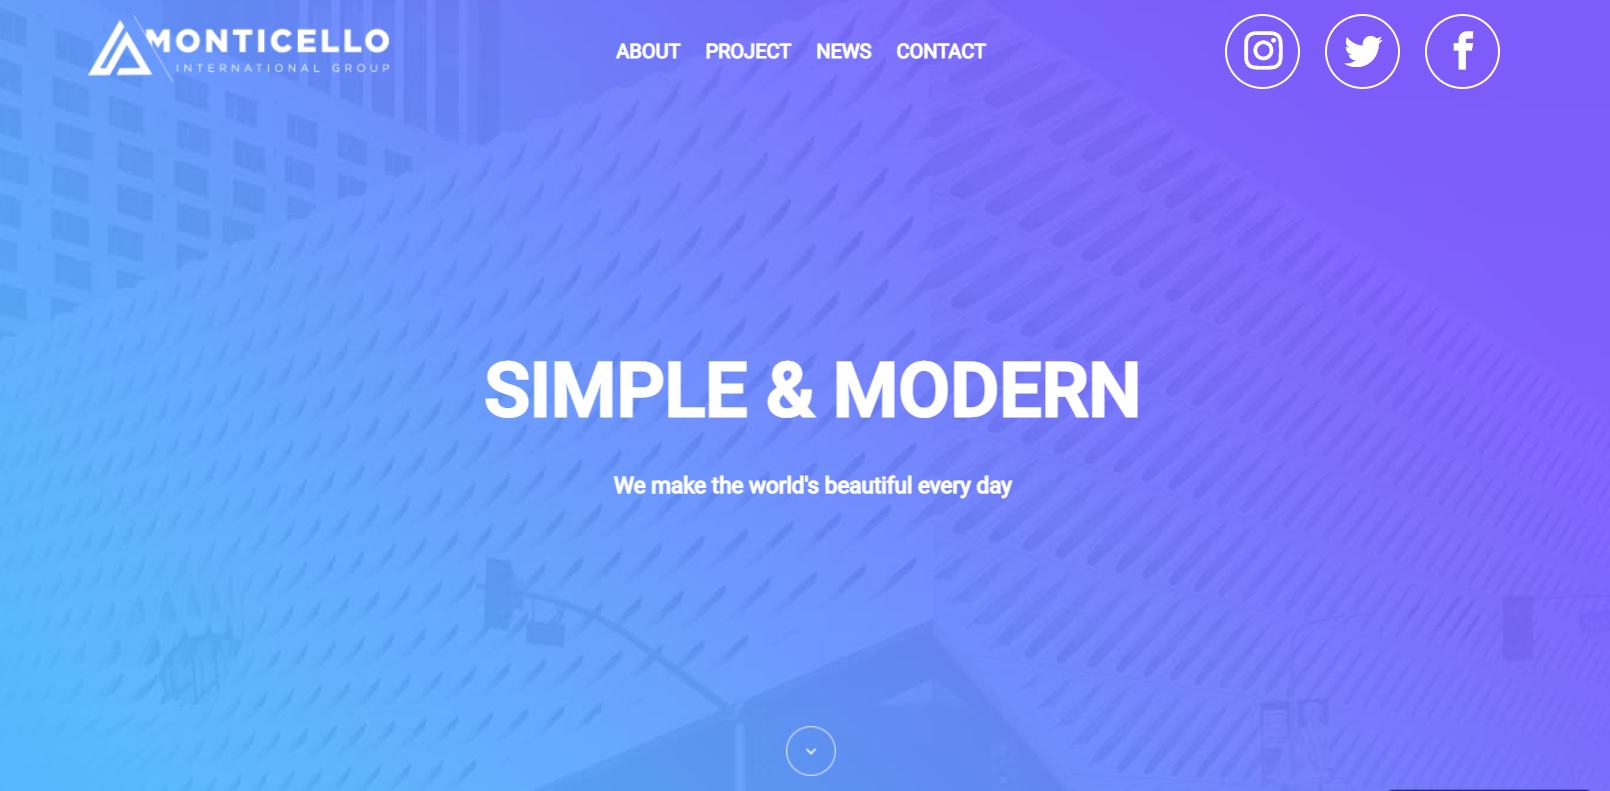
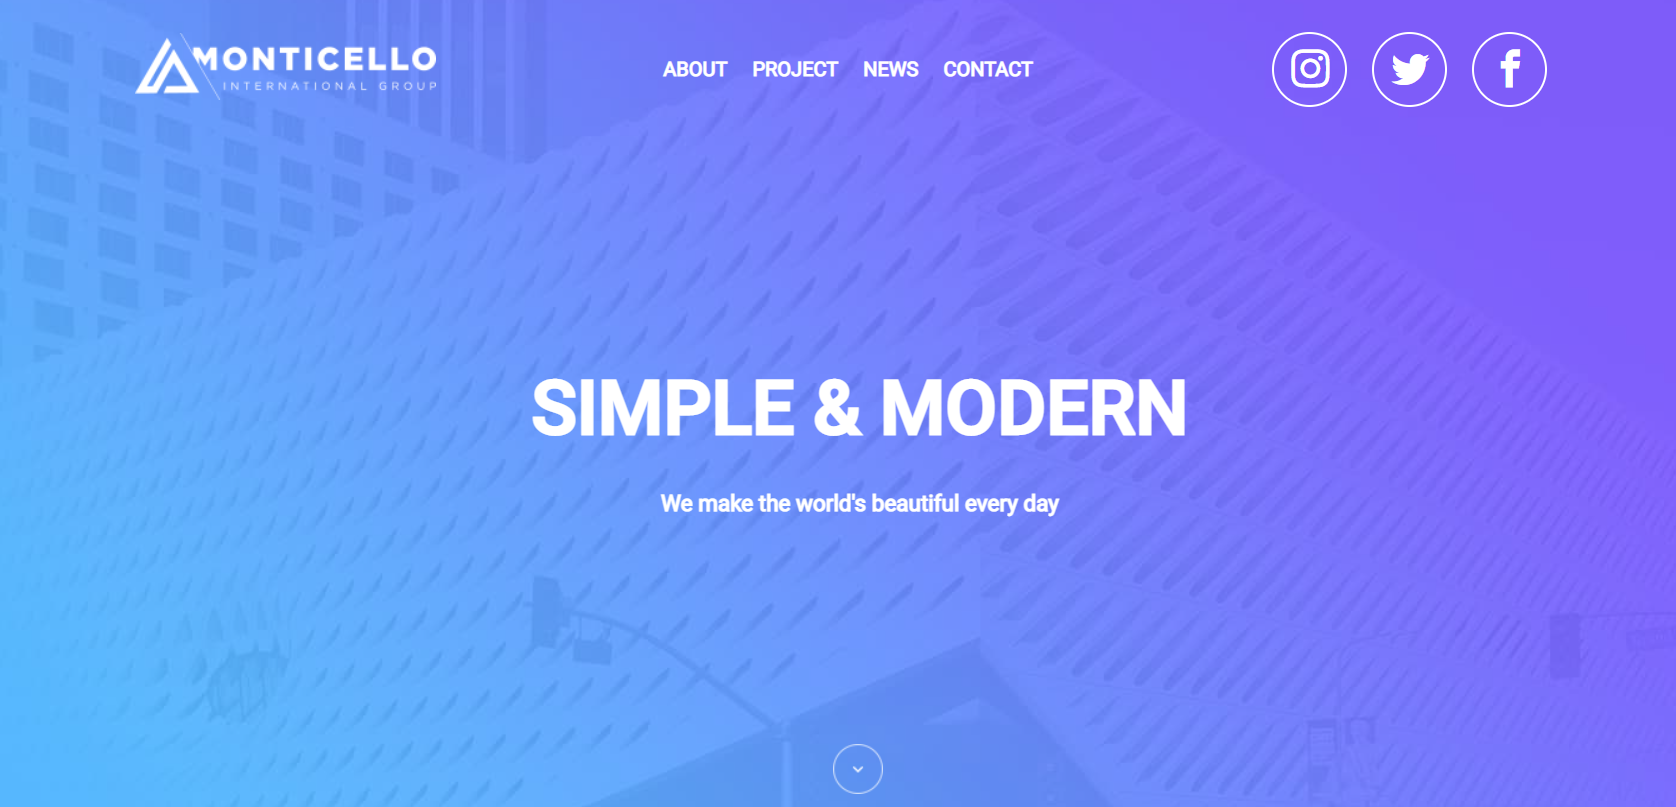
added fonts

diff --git a/index.html b/index.html
@@ -20,6 +20,12 @@
           integrity="sha384-b5kHyXgcpbZJO/tY9Ul7kGkf1S0CWuKcCD38l8YkeH8z8QjE0GmW1gYU5S9FOnJ0"
           crossorigin="anonymous"
   ></script>
+  <link rel="preconnect" href="https://fonts.googleapis.com">
+<link rel="preconnect" href="https://fonts.gstatic.com" crossorigin>
+<link href="https://fonts.googleapis.com/css2?family=Crimson+Text:ital,wght@0,400;0,700;1,400&family=Dancing+Script&family=Lexend:wght@100&display=swap" rel="stylesheet">
+  <link rel="preconnect" href="https://fonts.googleapis.com">
+<link rel="preconnect" href="https://fonts.gstatic.com" crossorigin>
+<link href="https://fonts.googleapis.com/css2?family=Dancing+Script&family=Lexend:wght@100&display=swap" rel="stylesheet">
   <link rel="stylesheet" href="style.css" />
 </head>
 <body>
@@ -55,7 +61,7 @@
   </div>
 </nav>
 <h2 class="text-center">👋 Hi I am</h2>
-<h1 class="text-center">Alla Honcharova</h1>
+<h1 class="text-center m-5">Alla Honcharova</h1>
 <h3 class="text-center">🇺🇦 Front-end developer, based in Europe</h3>
 <div class="navigation-links mb-5">
   <a href="about.html#contact" class="contact-link">Contact me</a>
@@ -117,20 +123,7 @@
         <img src="images/Monticello.png" class="img-fluid rounded" />
       </div>
     </div>
-    <div class="row mt-5">
-      <div class="col-md-6">
-        <h2 class="mb-3">Courses React App</h2>
-        <p>
-          The weather app also provides atmospheric pressure, weather conditions, visibility distance, relative humidity, precipitation in different unites, dew point, wind speed and direction, in addition to ten days in future and hourly weather forecast.
-        </p>
-        <div class="mb-5 mt-5 img">
-          <a href="https://github.com/alla2021/Courses_App" class="primary-link">Launch Courses React App</a>
-        </div>
-      </div>
-      <div class="col-md-6 img">
-        <img src="images/react-projects/courses-app/courses-list.png" class="img-fluid rounded" />
-      </div>
-    </div>
+
     <div class="row mt-5">
       <div class="col-md-6 img">
         <img src="images/react-projects/movies-app/main-page.png" class="img-fluid rounded" />
@@ -147,16 +140,29 @@
     </div>
     <div class="row mt-5">
       <div class="col-md-6">
-        <h2 class="mb-3">IQ Test Vue App</h2>
+        <h2 class="mb-3">Courses React App</h2>
         <p>
-          This is an IQ test app built using Vue.js. The app generates a quiz consisting of 10 questions and displays a call button for the user's IQ results.
+          The weather app also provides atmospheric pressure, weather conditions, visibility distance, relative humidity, precipitation in different unites, dew point, wind speed and direction, in addition to ten days in future and hourly weather forecast.
         </p>
         <div class="mb-5 mt-5 img">
-          <a href="https://github.com/alla2021/IQ_Test_app" class="primary-link">Launch Courses React App</a>
+          <a href="https://github.com/alla2021/Courses_App" class="primary-link">Launch Courses React App</a>
         </div>
       </div>
       <div class="col-md-6 img">
+        <img src="images/react-projects/courses-app/courses-list.png" class="img-fluid rounded" />
+      </div>
+    </div>
+    <div class="row mt-5">
+      <div class="col-md-6 img">
         <img src="images/vue-projects/main.png" class="img-fluid rounded" />
+      </div>
+      <div class="col-md-6">
+        <h2 class="mb-3">IQ Test Vue App</h2>
+        <p>
+          This is an IQ test app built using Vue.js. The app generates a quiz consisting of 10 questions and displays a call button for the user's IQ results.        </p>
+        <div class="mt-5">
+          <a href="https://github.com/alla2021/IQ_Test_app" class="primary-link">Launch IQ Test Vue App</a>
+        </div>
       </div>
     </div>
   </div>

diff --git a/style.css b/style.css
@@ -25,6 +25,12 @@
   -moz-osx-font-smoothing: grayscale;
 }
 
+.navbar-brand{
+  font-family: "Dancing Script",sans-serif;
+  font-size: 40px;
+  color:#6c63ff;
+}
+
 .icon-mail:before {
   content: "\ea86";
 }
@@ -46,7 +52,8 @@
 
 body {
   margin: 60px auto;
-  max-width: 800px;
+  max-width: 1000px;
+  font-family: 'Crimson Text', serif;
 }
 
 h1,
@@ -76,6 +83,11 @@ p {
   font-size: 18px;
   line-height: 1.5;
   text-align: center;
+}
+
+.row {
+  display: flex;
+  flex-direction: row;
 }
 
 .navigation-links {
@@ -153,6 +165,48 @@ p {
   align-items: center;
 }
 
+.carousel-item img{
+    max-height: 600px;
+    height: 100%;
+    width: 100%;
+}
+
+.about-row{
+  min-height: 650px;
+}
 
 
+@media (max-width: 767px){
+  .row {
+    display: flex;
+    flex-direction: colomn;
+  }
+
+  h1{
+    font-size: 36px;
+    color: #6c63ff;
+    font-weight: 700;
+  }
+
+  h2,h3{
+    font-size: 26px;
+  }
+
+  .about-row{
+    min-height: 300px;
+  }
+}
+
+@media (min-width: 768px) { 
+  .about-row{
+    min-height: 420px;
+  }
+ }
+
+
+@media (min-width: 992px) { 
+  .about-row{
+    min-height: 580px;
+  }
+ }
 

diff --git a/about.html b/about.html
@@ -15,6 +15,12 @@
       integrity="sha384-b5kHyXgcpbZJO/tY9Ul7kGkf1S0CWuKcCD38l8YkeH8z8QjE0GmW1gYU5S9FOnJ0"
       crossorigin="anonymous"
     ></script>
+    <link rel="preconnect" href="https://fonts.googleapis.com">
+<link rel="preconnect" href="https://fonts.gstatic.com" crossorigin>
+<link href="https://fonts.googleapis.com/css2?family=Dancing+Script&family=Lexend:wght@100&display=swap" rel="stylesheet">
+<link rel="preconnect" href="https://fonts.googleapis.com">
+<link rel="preconnect" href="https://fonts.gstatic.com" crossorigin>
+<link href="https://fonts.googleapis.com/css2?family=Crimson+Text:ital,wght@0,400;0,700;1,400&family=Dancing+Script&family=Lexend:wght@100&display=swap" rel="stylesheet">
     <link rel="stylesheet" href="style.css" />
     <title>About Alla</title>
   </head>
@@ -57,7 +63,7 @@
       </p>
     </div>
     <div class="container">
-      <div class="row">
+      <div class="row about-row">
         <div class="col-sm-12">
           <div id="slider" class="carousel slide" data-ride="carousel">
             <div class="carousel-inner">
